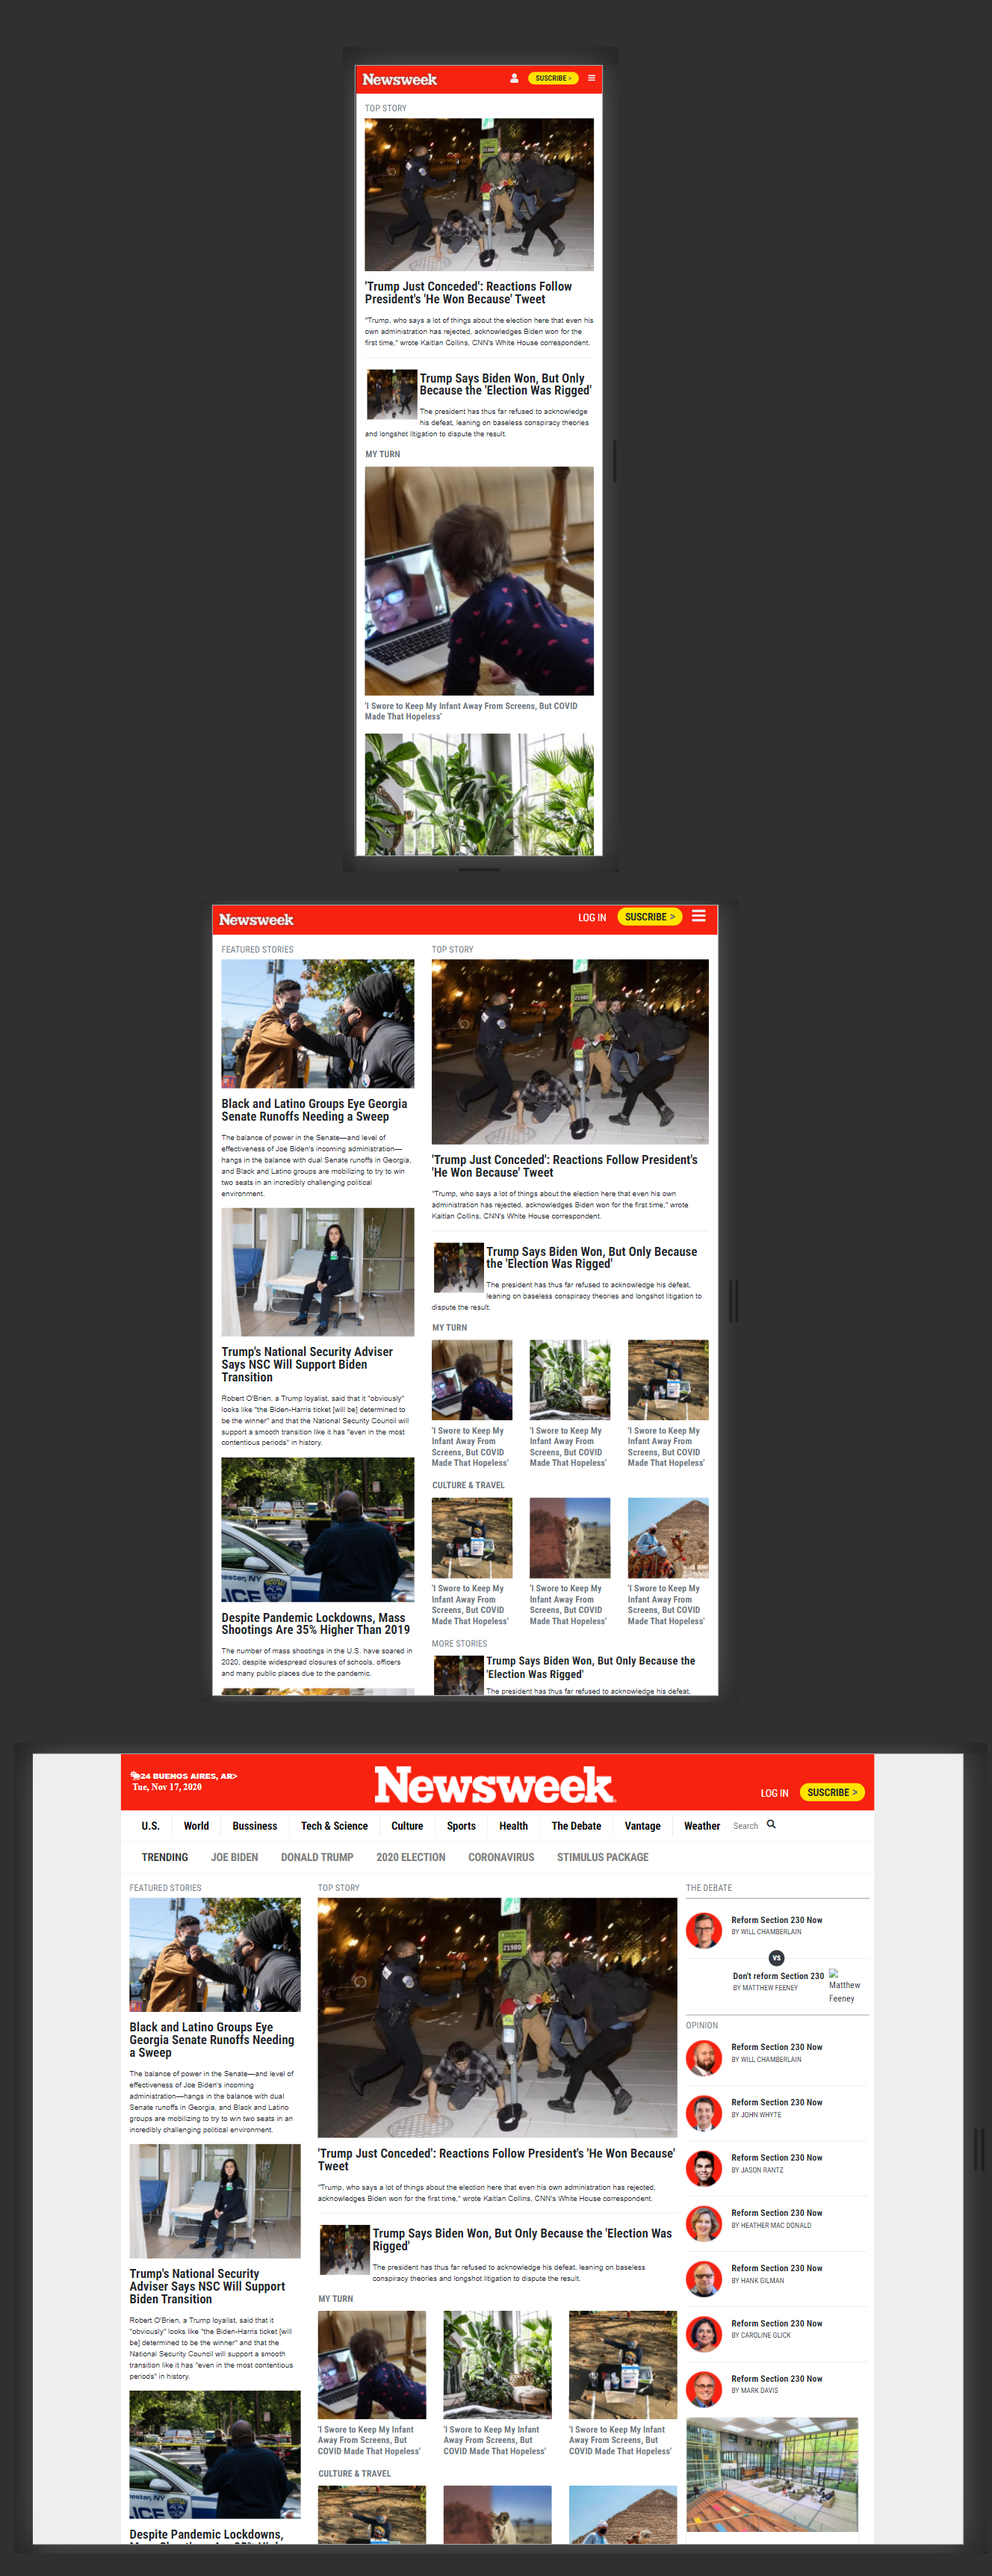
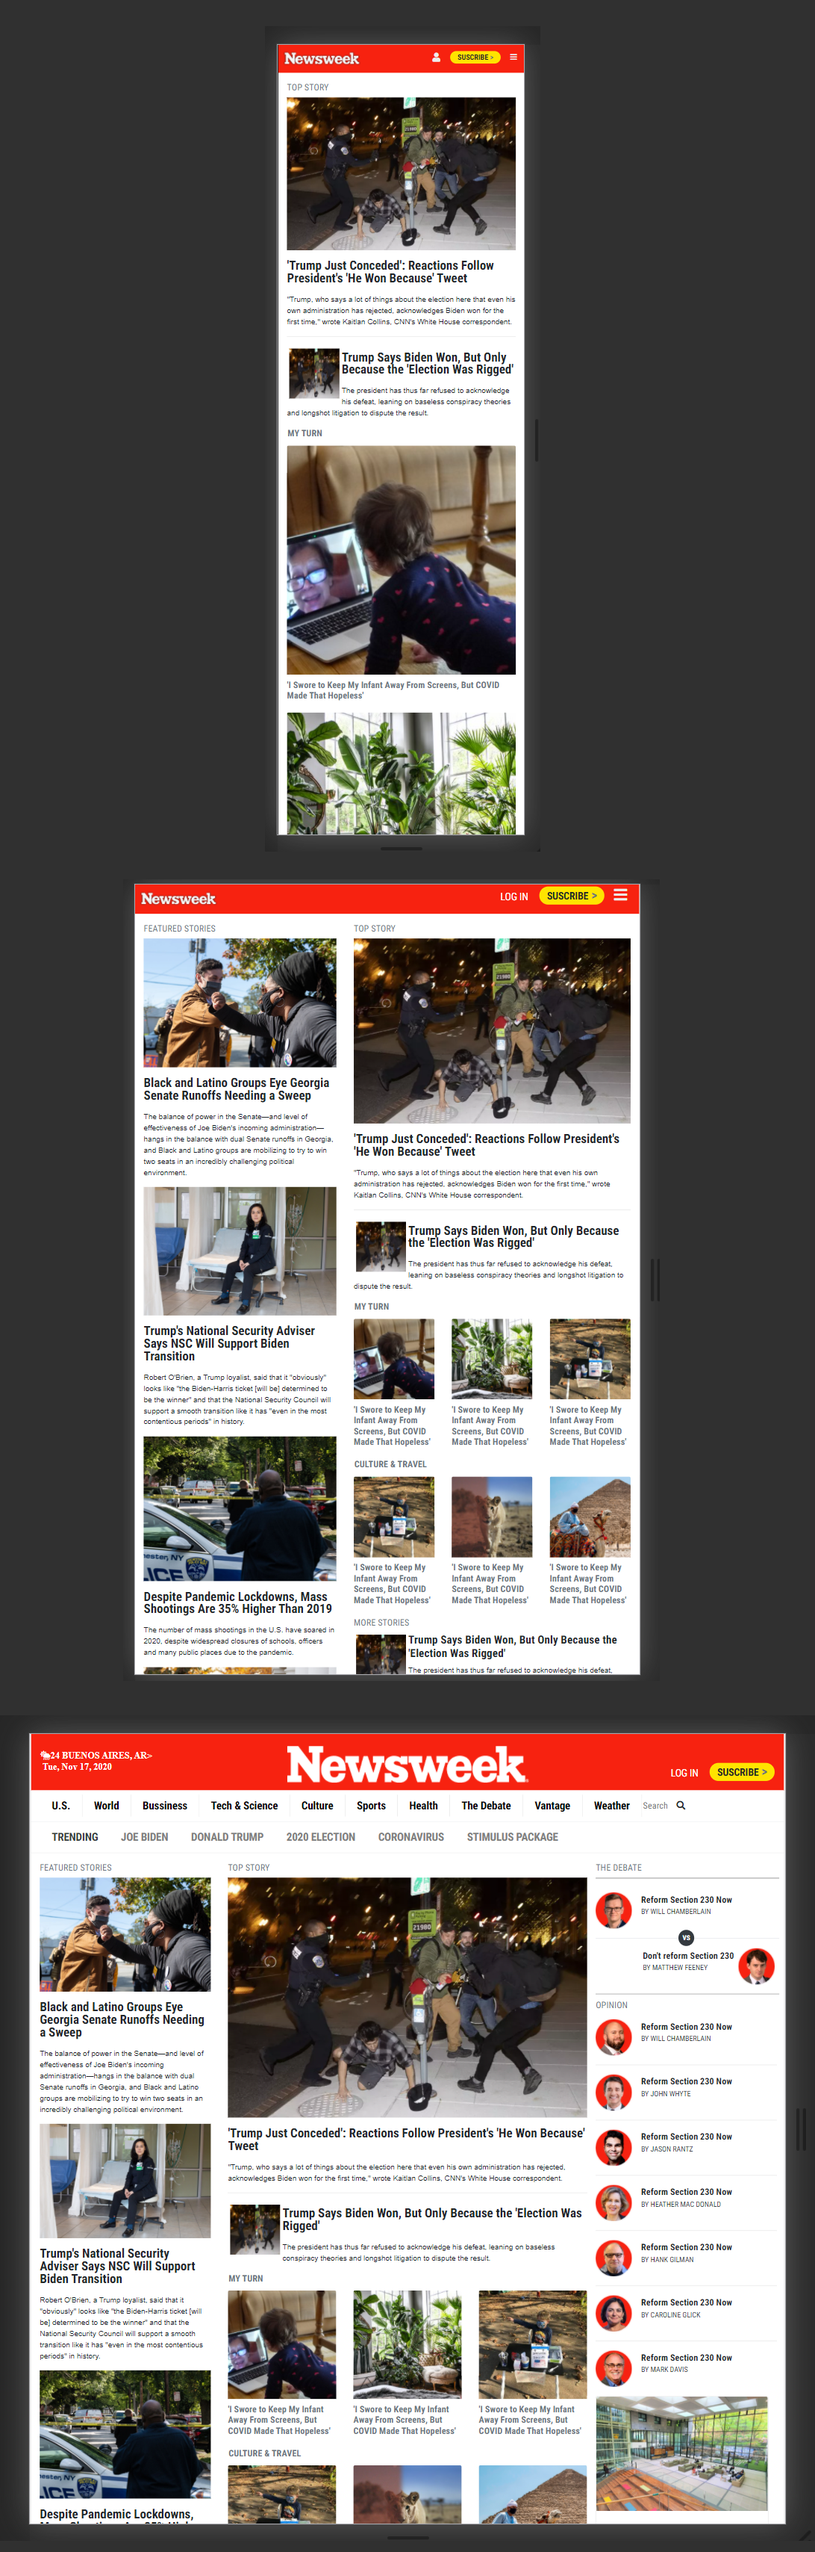
finish

diff --git a/index.html b/index.html
@@ -401,8 +401,8 @@
             <span class="badge badge-secondary badge-pill bg-dark py-2 mb-2 bbbadge position-absolute mb-2">VS</span></div>
     
             
-                <div class="second-debator  double-bord d-flex flex-row-reverse pt-3 border-top pb-2  pr-lg-2 ">
-                    <img class="img-fluid mb-2" src="/img/matthew-feeney.png" alt="Matthew Feeney" title="Matthew Feeney" width="63" height="63" loading="lazy">
+                <div class="second-debator  double-bord d-flex flex-row-reverse pt-3 border-top pb-2  pr-lg-2">
+                    <img class="img-fluid mb-2" src="img/matthew-feeney.png" alt="Matthew Feeney" title="Matthew Feeney" width="63" height="63">
                     <div class="1st-debater d-flex flex-column px-2">
                     <span class="p font-weight-bold">Don't reform Section 230</span>
                     <span class="p small">BY MATTHEW FEENEY</span>
